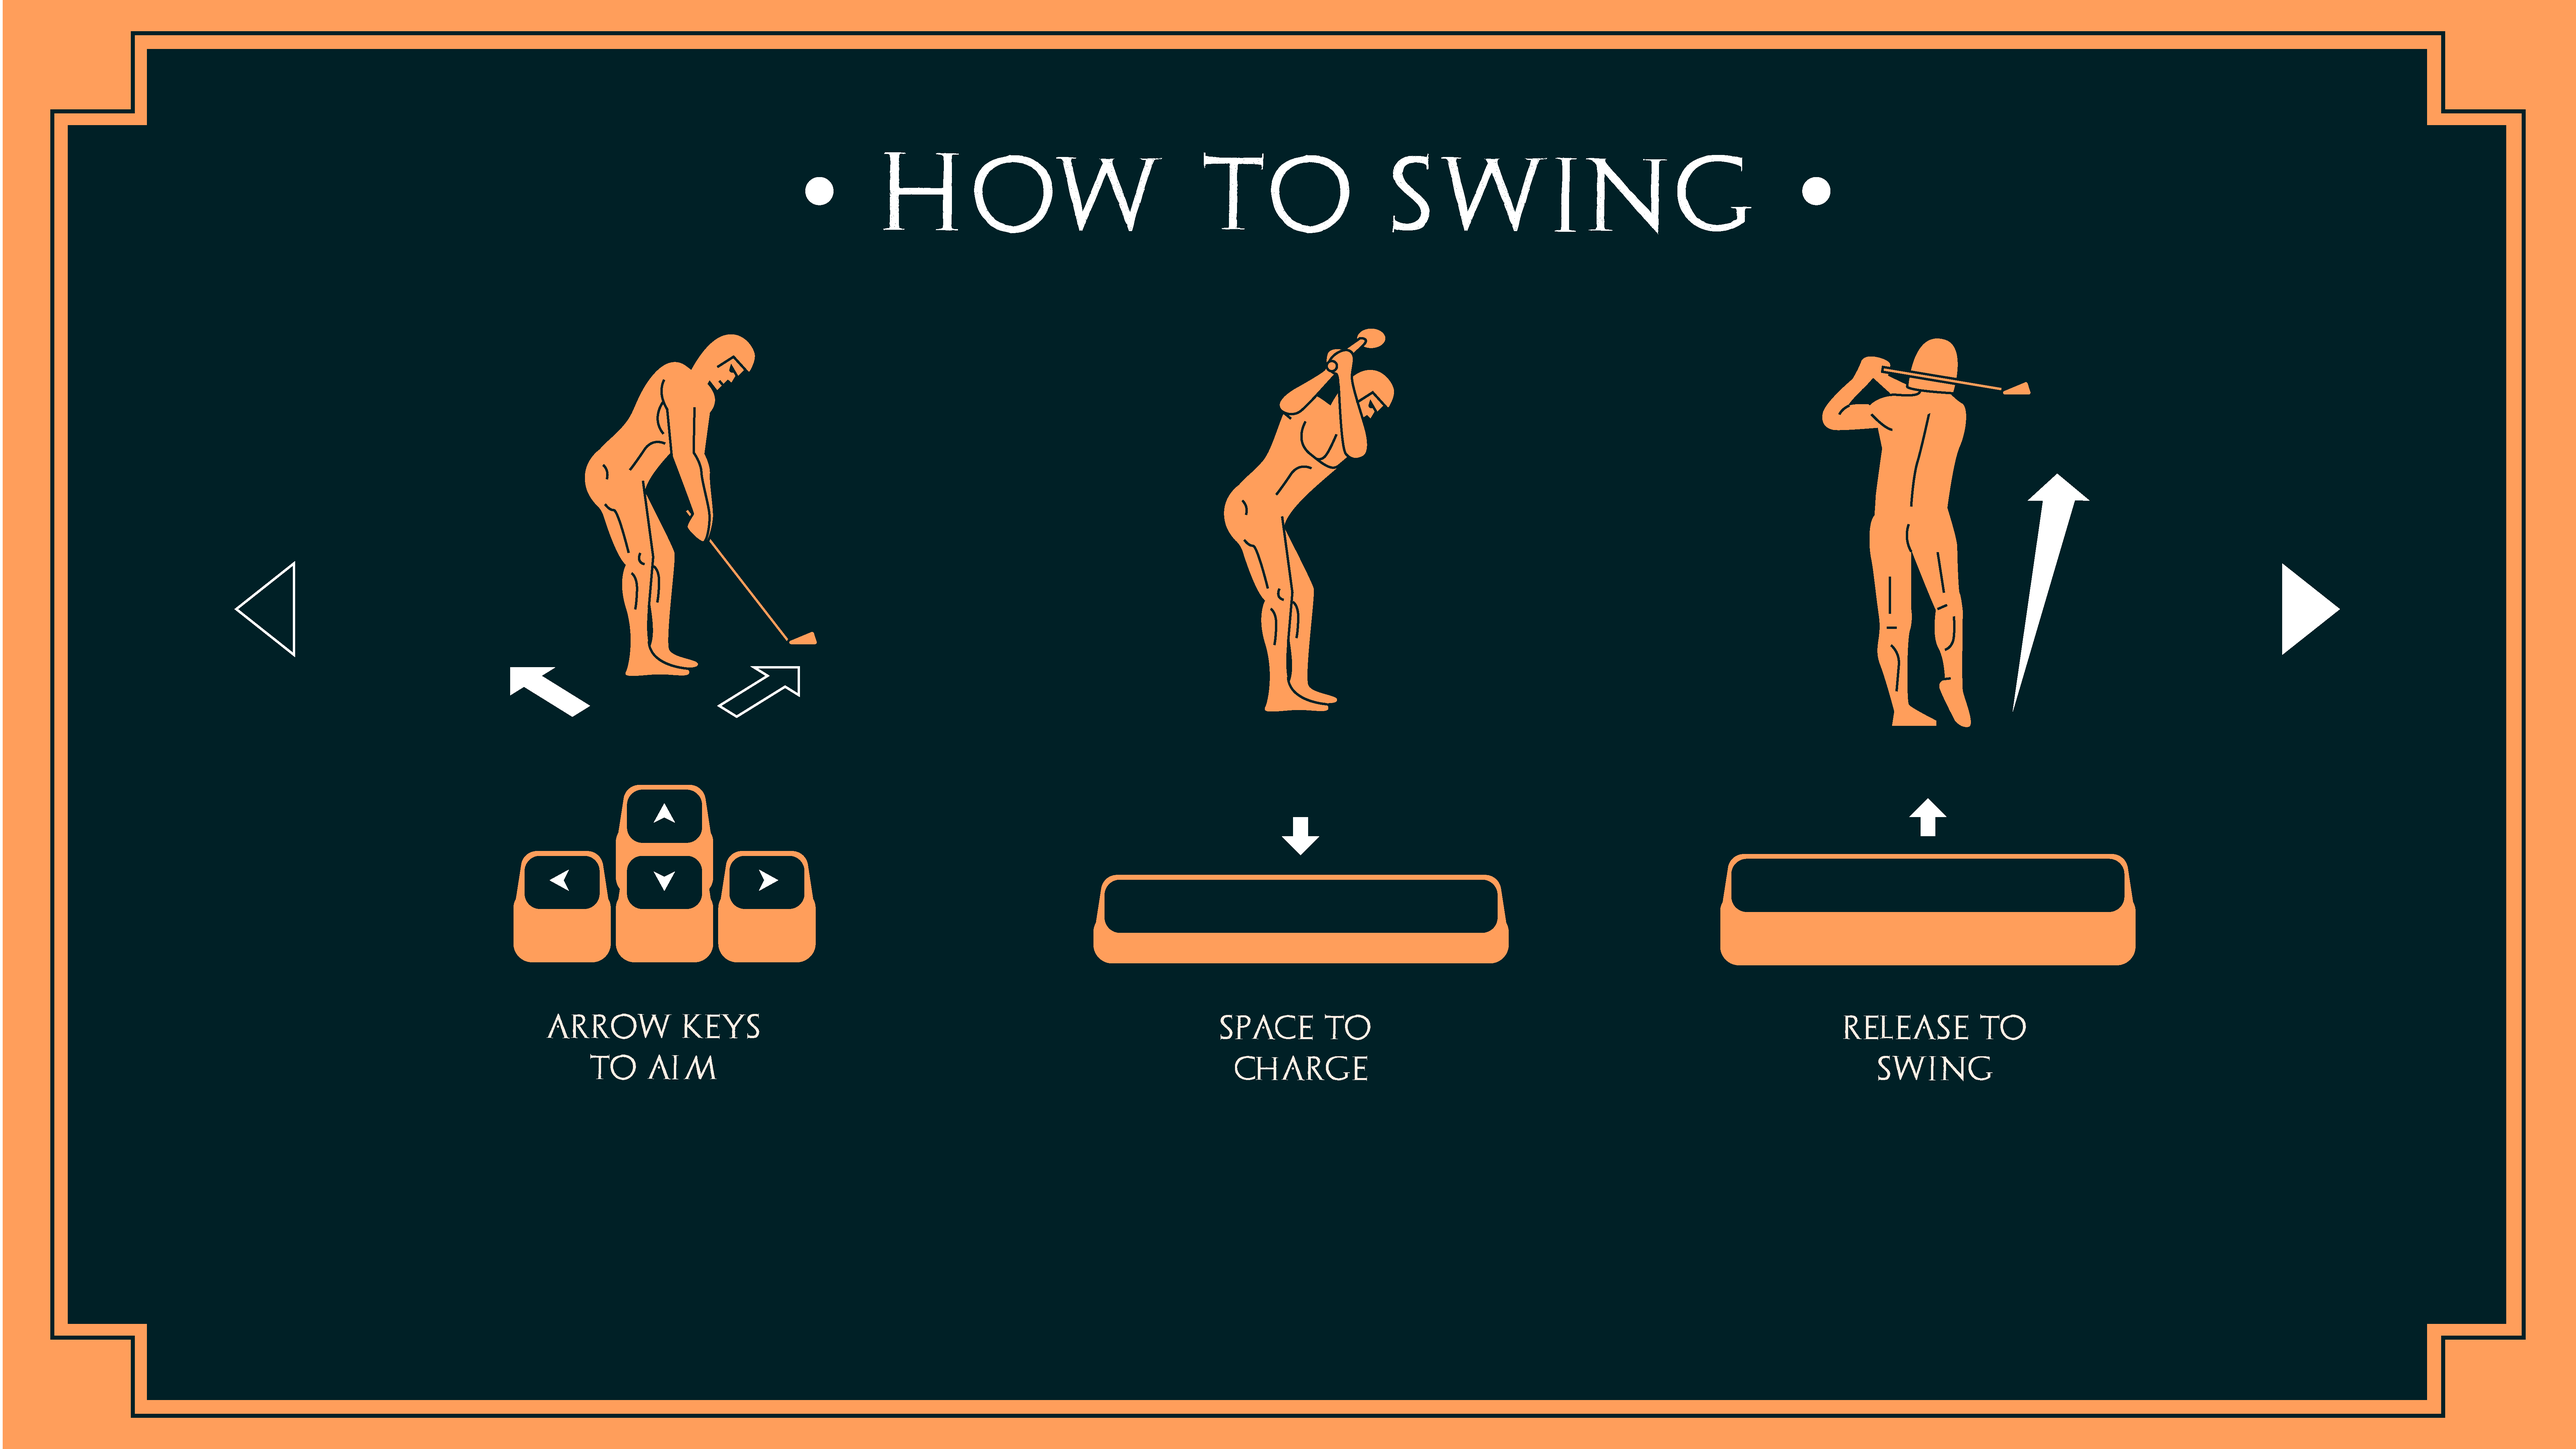
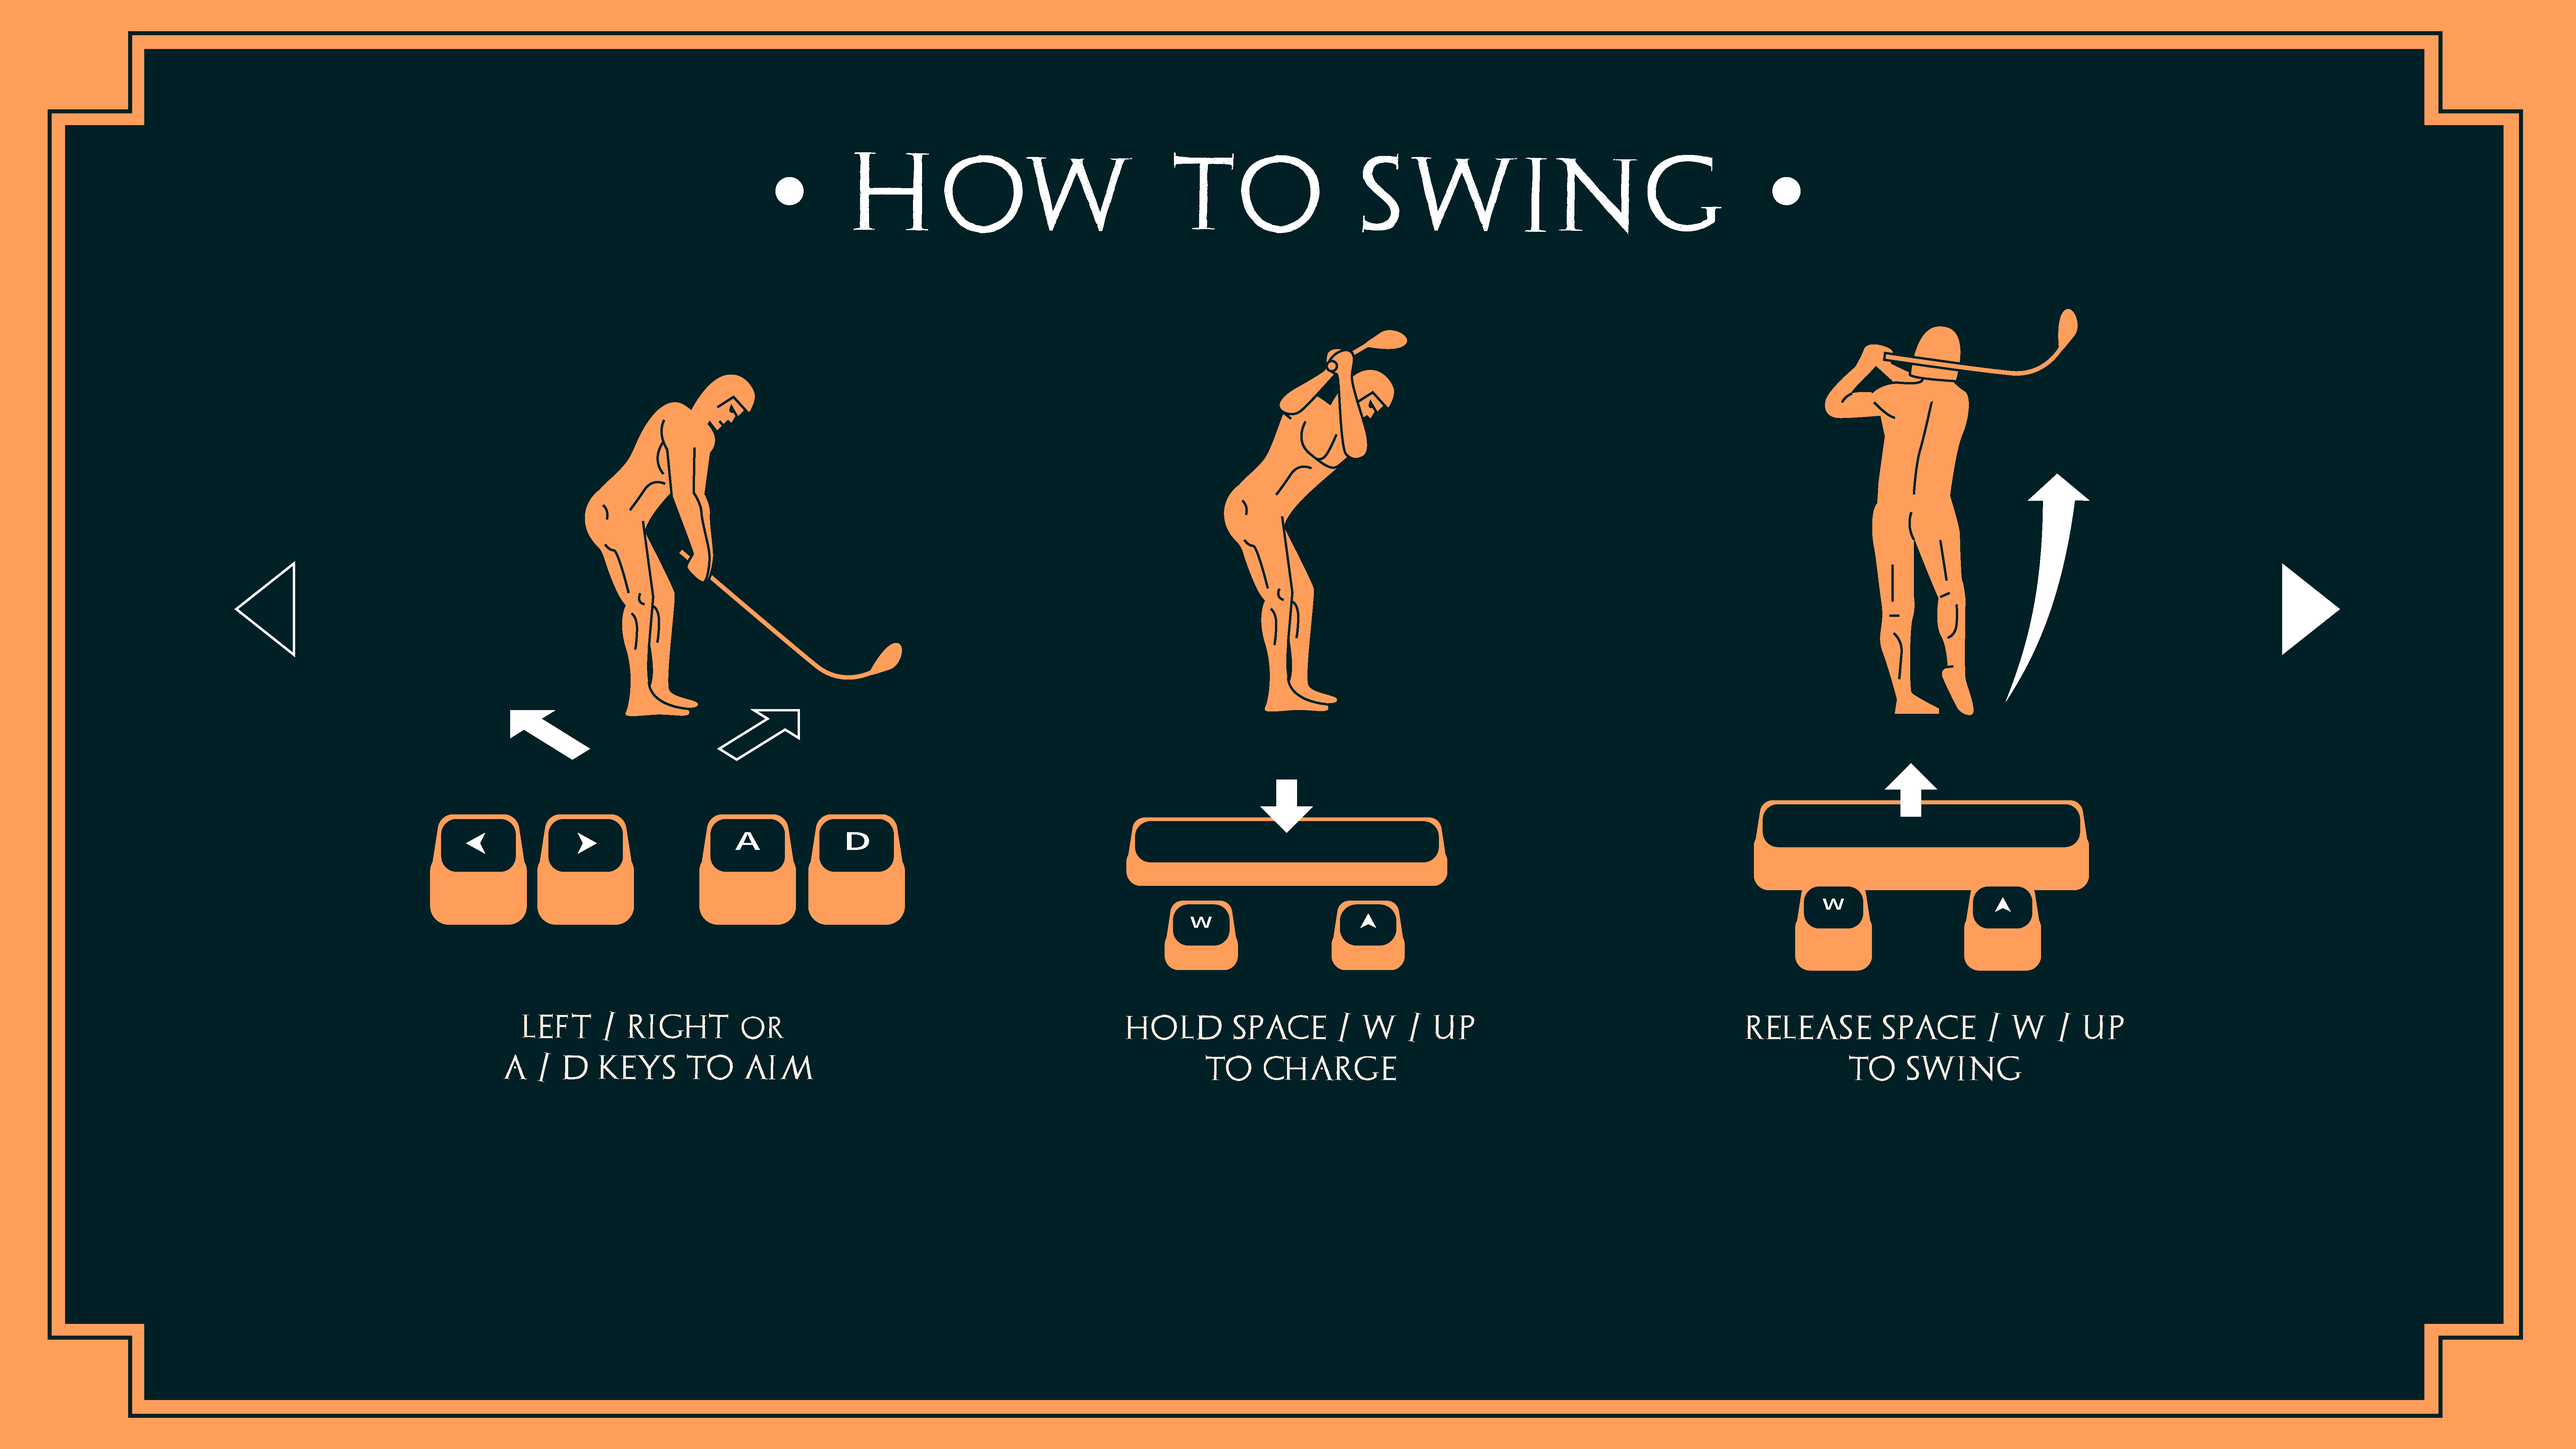
Thank You. Very Cool.
id like to thank elise

diff --git a/Assets/_Codebase/Scripts/GameInputController.cs b/Assets/_Codebase/Scripts/GameInputController.cs
@@ -70,7 +70,7 @@ public class GameInputController : MonoBehaviour
         {
             
             // Launch ball when ready
-            if (Input.GetKeyDown(KeyCode.Space) || Input.GetKeyDown(KeyCode.W))
+            if (Input.GetKeyDown(KeyCode.Space) || Input.GetKeyDown(KeyCode.W) || Input.GetKeyDown(KeyCode.UpArrow))
             {
                 chargeUp.StartCharge();
             }
@@ -97,7 +97,7 @@ public class GameInputController : MonoBehaviour
                 //Input.GetAxis("Mouse ScrollWheel") * _scrollAddAmount * Time.deltaTime;
             _launchController.SetRangeByPercent(setRange);
 
-            if (Input.GetKeyUp(KeyCode.Space) || Input.GetKeyUp(KeyCode.W))
+            if (Input.GetKeyUp(KeyCode.Space) || Input.GetKeyUp(KeyCode.W) || Input.GetKeyUp(KeyCode.UpArrow))
             {
                 LaunchBall();
                 chargeUp.EndCharge();
@@ -123,7 +123,7 @@ public class GameInputController : MonoBehaviour
             bool destructiveProjectileSlowed = _currentProjectile == null;
 
             // Go back to launch State, placeholder until we add in bounce stuff
-            if ((Input.GetKeyDown(KeyCode.Space) || Input.GetKeyDown(KeyCode.W)) && destructiveProjectileSlowed)
+            if ((Input.GetKeyDown(KeyCode.Space) || Input.GetKeyDown(KeyCode.W) || Input.GetKeyDown(KeyCode.UpArrow)) && destructiveProjectileSlowed)
             {
                 GotoLaunchState();
             }
